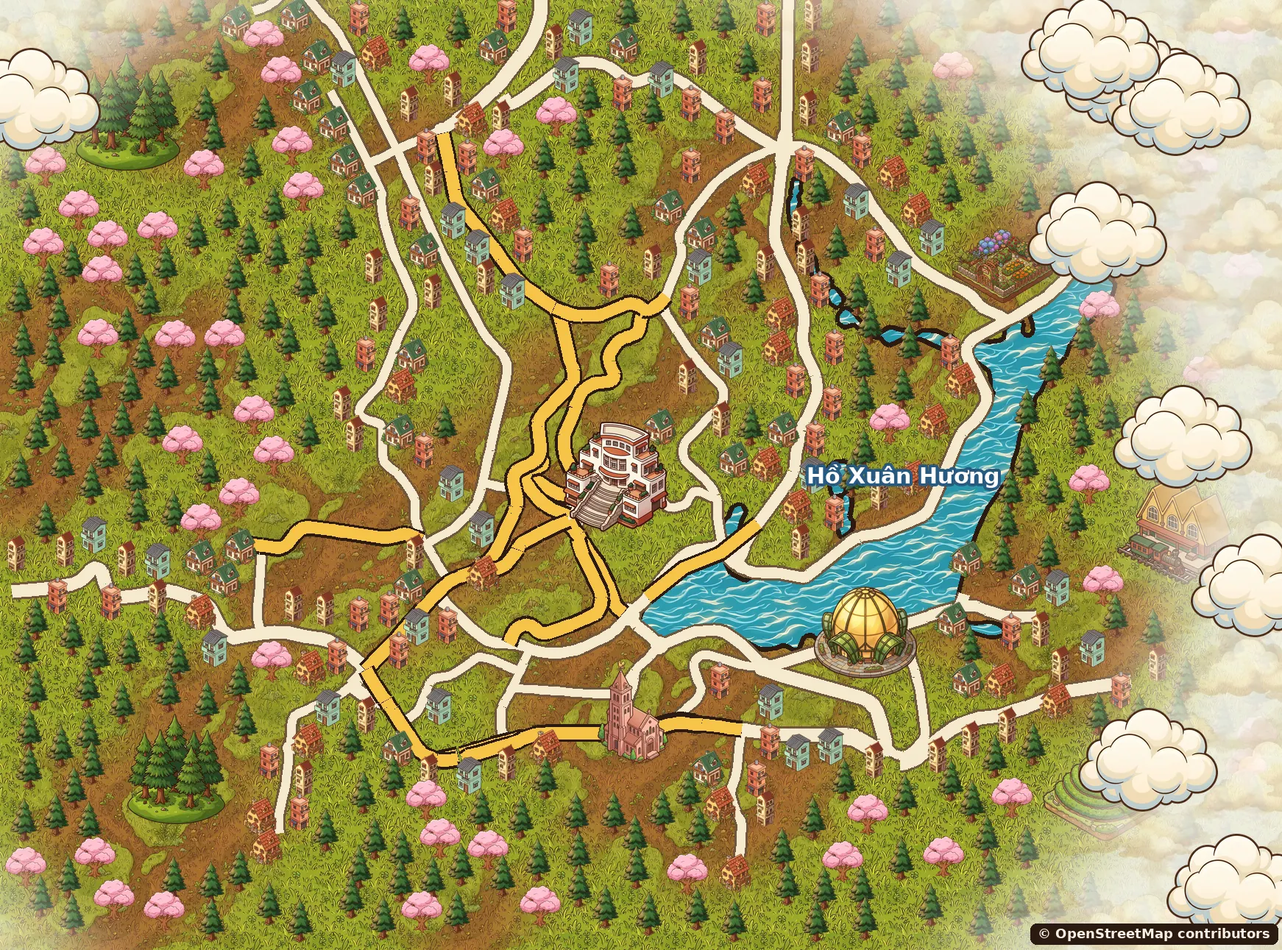
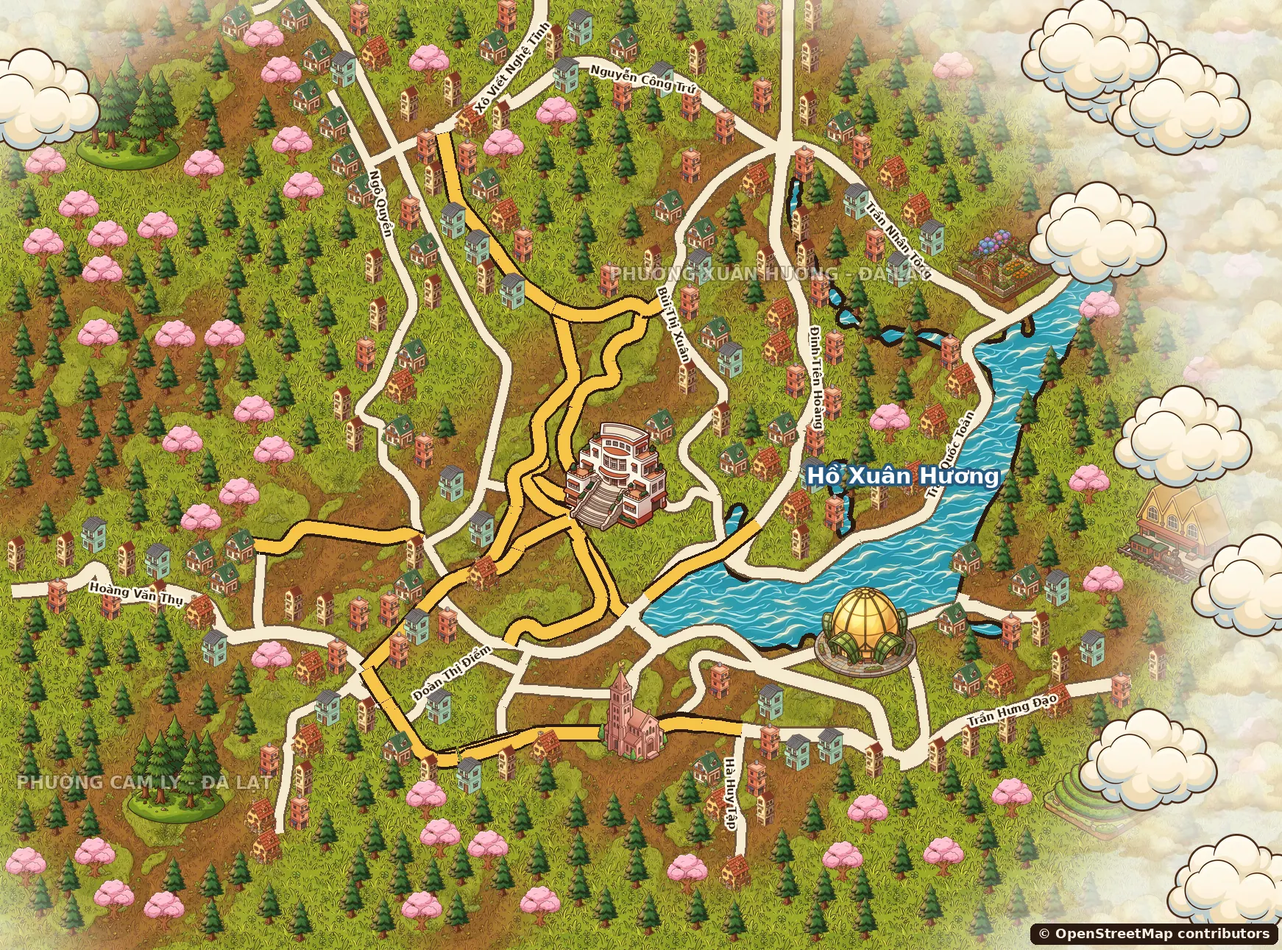
Bản đồ theo địa giới mới: 34 tỉnh thành (3 miền), Lâm Đồng → phường Xuân Hương / Cam Ly - Đà Lạt; ghi tên đường thật trên bản đồ, trang phố giới thiệu đặc trưng
Nguồn: NQ 202/2025/QH15, Luật 72/2025/QH15, NQ 1671/NQ-UBTVQH15 (docs/research/dia_gioi_2025.md)

Claude-Session: https://claude.ai/code/session_01X21C3yKyKWkBxdp7Y7iVUK

diff --git a/src/core/cities.ts b/src/core/cities.ts
@@ -1,28 +1,74 @@
 /**
- * Bản đồ nhiều tầng (anh Kha 25/11/2026: "sau này có map các thành phố lớn, nhiều màn hơn"):
- * Việt Nam → Thành phố → Phố → Tiệm. Thêm thành phố mới = thêm 1 dòng ở đây + bản đồ + các phố của nó.
- * Vị trí xPct/yPct: chỗ ghim trên bản đồ Việt Nam (Spark vẽ sau), theo % khung dọc.
+ * Bản đồ nhiều tầng theo ĐỊA GIỚI MỚI (anh Kha 25/11/2026):
+ * Việt Nam → 34 tỉnh/thành (NQ 202/2025/QH15, chạy từ 1/7/2025) → phường/xã (bỏ cấp huyện) → đường thật → tiệm.
+ * Đà Lạt nay thuộc tỉnh Lâm Đồng mới (Lâm Đồng + Đắk Nông + Bình Thuận); "TP Đà Lạt" không còn là đơn vị hành chính,
+ * thay bằng 5 phường "… - Đà Lạt" (NQ 1671/NQ-UBTVQH15). Nguồn: docs/research/dia_gioi_2025.md.
+ * Mở tỉnh mới = đổi open:true + thêm bản đồ + các phố của nó.
  */
-export interface CityDef {
+export type Region = 'bac' | 'trung' | 'nam';
+export interface ProvinceDef {
   id: string;
   name: string;
-  open: boolean;
-  /** câu ngắn dưới tên */
-  tag: string;
-  xPct: number;
-  yPct: number;
+  region: Region;
+  /** thành phố trực thuộc trung ương */
+  tw?: boolean;
+  open?: boolean;
+  /** chỗ chơi đang mở trong tỉnh (vd. Đà Lạt) */
+  playArea?: string;
 }
 
-export const CITIES: CityDef[] = [
-  { id: 'da_lat', name: 'Đà Lạt', open: true, tag: 'Phố núi sương mù', xPct: 62, yPct: 74 },
-  { id: 'sai_gon', name: 'Sài Gòn', open: false, tag: 'Sắp mở', xPct: 52, yPct: 84 },
-  { id: 'ha_noi', name: 'Hà Nội', open: false, tag: 'Sắp mở', xPct: 40, yPct: 12 },
-  { id: 'da_nang', name: 'Đà Nẵng', open: false, tag: 'Sắp mở', xPct: 64, yPct: 46 },
-  { id: 'hoi_an', name: 'Hội An', open: false, tag: 'Sắp mở', xPct: 66, yPct: 50 },
-  { id: 'hue', name: 'Huế', open: false, tag: 'Sắp mở', xPct: 56, yPct: 42 },
-  { id: 'nha_trang', name: 'Nha Trang', open: false, tag: 'Sắp mở', xPct: 72, yPct: 70 },
-  { id: 'can_tho', name: 'Cần Thơ', open: false, tag: 'Sắp mở', xPct: 40, yPct: 90 },
+export const PROVINCES: ProvinceDef[] = [
+  { id: 'ha_noi', name: 'Hà Nội', region: 'bac', tw: true },
+  { id: 'hai_phong', name: 'Hải Phòng', region: 'bac', tw: true },
+  { id: 'quang_ninh', name: 'Quảng Ninh', region: 'bac' },
+  { id: 'bac_ninh', name: 'Bắc Ninh', region: 'bac' },
+  { id: 'hung_yen', name: 'Hưng Yên', region: 'bac' },
+  { id: 'ninh_binh', name: 'Ninh Bình', region: 'bac' },
+  { id: 'cao_bang', name: 'Cao Bằng', region: 'bac' },
+  { id: 'lang_son', name: 'Lạng Sơn', region: 'bac' },
+  { id: 'lai_chau', name: 'Lai Châu', region: 'bac' },
+  { id: 'dien_bien', name: 'Điện Biên', region: 'bac' },
+  { id: 'son_la', name: 'Sơn La', region: 'bac' },
+  { id: 'tuyen_quang', name: 'Tuyên Quang', region: 'bac' },
+  { id: 'lao_cai', name: 'Lào Cai', region: 'bac' },
+  { id: 'thai_nguyen', name: 'Thái Nguyên', region: 'bac' },
+  { id: 'phu_tho', name: 'Phú Thọ', region: 'bac' },
+  { id: 'thanh_hoa', name: 'Thanh Hóa', region: 'trung' },
+  { id: 'nghe_an', name: 'Nghệ An', region: 'trung' },
+  { id: 'ha_tinh', name: 'Hà Tĩnh', region: 'trung' },
+  { id: 'quang_tri', name: 'Quảng Trị', region: 'trung' },
+  { id: 'hue', name: 'Huế', region: 'trung', tw: true },
+  { id: 'da_nang', name: 'Đà Nẵng', region: 'trung', tw: true },
+  { id: 'quang_ngai', name: 'Quảng Ngãi', region: 'trung' },
+  { id: 'gia_lai', name: 'Gia Lai', region: 'trung' },
+  { id: 'dak_lak', name: 'Đắk Lắk', region: 'trung' },
+  { id: 'khanh_hoa', name: 'Khánh Hòa', region: 'trung' },
+  { id: 'lam_dong', name: 'Lâm Đồng', region: 'trung', open: true, playArea: 'Đà Lạt' },
+  { id: 'tp_hcm', name: 'TP Hồ Chí Minh', region: 'nam', tw: true },
+  { id: 'dong_nai', name: 'Đồng Nai', region: 'nam' },
+  { id: 'tay_ninh', name: 'Tây Ninh', region: 'nam' },
+  { id: 'can_tho', name: 'Cần Thơ', region: 'nam', tw: true },
+  { id: 'vinh_long', name: 'Vĩnh Long', region: 'nam' },
+  { id: 'dong_thap', name: 'Đồng Tháp', region: 'nam' },
+  { id: 'ca_mau', name: 'Cà Mau', region: 'nam' },
+  { id: 'an_giang', name: 'An Giang', region: 'nam' },
 ];
+export const REGION_NAME: Record<Region, string> = { bac: 'Miền Bắc', trung: 'Miền Trung – Tây Nguyên', nam: 'Miền Nam' };
+
+/**
+ * Phố trong game ↔ đường thật. Bản đồ ghi TÊN ĐƯỜNG THẬT; trang phố giới thiệu "phố" theo đặc trưng.
+ * Phường: theo bảng giá đất cũ (phường 1–6) + NQ 1671 — Hoàng Diệu (P5 cũ) → Cam Ly; còn lại → Xuân Hương.
+ */
+export interface StreetInfo { road: string; roads: string; ward: string; gameName: string; intro: string }
+export const STREET_INFO: Record<string, StreetInfo> = {
+  doc: { road: 'Phố Dốc', roads: 'Con dốc nhỏ gần chợ (phố trong game)', ward: 'Xuân Hương - Đà Lạt', gameName: 'Phố Dốc', intro: 'Ba tiệm đầu tiên: tiệm giày, tiệm bánh, tiệm hoa — học giữ tiệm ở đây' },
+  street_tang_bat_ho: { road: 'Tăng Bạt Hổ', roads: 'Đường Tăng Bạt Hổ – Trương Công Định', ward: 'Xuân Hương - Đà Lạt', gameName: 'Phố Ăn Đêm', intro: 'Phố ăn đêm sau chợ và dốc phố Tây: bánh căn, sữa nóng, hostel, bar dưới hầm' },
+  street_pho_ca_phe: { road: 'Nguyễn Chí Thanh', roads: 'Đường Nguyễn Chí Thanh – Lê Đại Hành', ward: 'Xuân Hương - Đà Lạt', gameName: 'Phố Cà Phê', intro: 'Con đường cà phê lên Khu Hoà Bình: quán xưa cạnh quán mới, kem bơ, sân thượng nhìn phố' },
+  street_phan_dinh_phung: { road: 'Phan Đình Phùng', roads: 'Đường Phan Đình Phùng', ward: 'Xuân Hương - Đà Lạt', gameName: 'Phố Dân Sinh', intro: 'Phố cũ của dân phố núi: nhà thuốc, tiệm tóc, nhà sách, studio ảnh cưới, phở sáng, tiệm xe máy' },
+  street_nguyen_van_troi: { road: 'Nguyễn Văn Trỗi', roads: 'Đường Nguyễn Văn Trỗi', ward: 'Xuân Hương - Đà Lạt', gameName: 'Phố Kem Bơ', intro: 'Phố một chiều ăn vặt ngọt: kem bơ lâu năm, chè, bánh tráng nướng, dốc chùa' },
+  street_hoang_dieu: { road: 'Hoàng Diệu', roads: 'Đường Hoàng Diệu', ward: 'Cam Ly - Đà Lạt', gameName: 'Phố Lẩu Bò', intro: 'Phố lẩu bò Ba Toa: hơn 20 quán lẩu, sáng bán bánh mì xíu mại' },
+  street_tran_phu: { road: 'Trần Phú', roads: 'Đường Trần Phú – Ba Tháng Hai', ward: 'Xuân Hương - Đà Lạt', gameName: 'Phố Di Sản', intro: 'Phố di sản: khách sạn thời Pháp bên hồ, tiệm bánh lâu đời, quán phở, cháo đêm' },
+};
 
 /** Ảnh tranh đầu phố (Spark đợt 35) theo id phố / 'doc' */
 export function streetBannerUrl(tab: string): string {

diff --git a/src/scenes/TitleScene.ts b/src/scenes/TitleScene.ts
@@ -57,7 +57,7 @@ import { SCENE_KEYS } from '../game/sceneKeys';
 import { renderShopkeeperAvatarSvg } from '../game/shopkeeperAvatar';
 import { renderShopFacadeSvg } from '../game/shopStreetArt';
 import BIG_MAP_PINS from '../core/streets/bigMapPins.json';
-import { CITIES, streetBannerUrl } from '../core/cities';
+import { PROVINCES, REGION_NAME, STREET_INFO, streetBannerUrl, type Region } from '../core/cities';
 import { sound } from '../game/sound';
 
 const RING_SIZE = 340;
@@ -358,7 +358,7 @@ export class TitleScene extends Phaser.Scene {
           <div class="td-country-panel">
             <button type="button" class="td-close-btn" data-close-country aria-label="Đóng">✕</button>
             <h3>Bản đồ Việt Nam</h3>
-            <p>Đà Lạt đang mở. Các thành phố khác sẽ mở dần.</p>
+            <p>34 tỉnh, thành theo địa giới mới (từ 1/7/2025). Đang mở: Lâm Đồng (Đà Lạt). ★ = thành phố trực thuộc trung ương.</p>
             <div class="td-country-list" id="td-country-list"></div>
           </div>
         </div>
@@ -879,12 +879,12 @@ export class TitleScene extends Phaser.Scene {
       const docStars = SHOP_STREET.reduce((n, sh) => n + shopStars(cur, sh), 0);
       type Pin = { id: string; at: { leftPct: number; topPct: number }; name: string; sub: string; open: boolean; testid: string; extra: string };
       const pins: Pin[] = [
-        { id: 'doc', at: BM.stage_1!, name: 'Phố Dốc', sub: `★${docStars}`, open: true, testid: 'street-tab-doc', extra: '' },
+        { id: 'doc', at: BM.stage_1!, name: STREET_INFO.doc!.road, sub: `★${docStars}`, open: true, testid: 'street-tab-doc', extra: '' },
         ...REAL_STREET_STAGES.map((st) => {
           const base = REAL_STREET_MAP_PINS[st.id] ?? { leftPct: 50, topPct: 50, shortName: st.name, tag: '' };
           const prog = streetProgress(cur, st.id);
           return {
-            id: st.id, at: BM[st.id] ?? { leftPct: base.leftPct, topPct: base.topPct }, name: base.shortName,
+            id: st.id, at: BM[st.id] ?? { leftPct: base.leftPct, topPct: base.topPct }, name: STREET_INFO[st.id]?.road ?? base.shortName,
             sub: isRealStreetsUnlocked ? `${prog.shopsCleared}/${prog.shopsTotal}` : '', open: isRealStreetsUnlocked,
             testid: `real-street-pin-${st.id}`, extra: `data-real-pin="${st.id}"`,
           };
@@ -905,7 +905,7 @@ export class TitleScene extends Phaser.Scene {
               ${pp.sub ? `<span class="td-bm-sub">${pp.sub}</span>` : ''}
             </button>`).join('')}
         </div>
-        <button type="button" class="td-bm-country" id="btn-open-country" data-testid="btn-open-country">🇻🇳 Đà Lạt</button>
+        <button type="button" class="td-bm-country" id="btn-open-country" data-testid="btn-open-country">🇻🇳 Lâm Đồng · Đà Lạt</button>
       `;
       const inner = host.querySelector<HTMLDivElement>('.td-bm-inner')!;
       const vw = host.clientWidth || 380;
@@ -977,7 +977,8 @@ export class TitleScene extends Phaser.Scene {
       const cur = loadTdSave();
       const isDoc = activeStreetTab === 'doc';
       const st = isDoc ? undefined : STAGES[activeStreetTab as StageId];
-      const name = isDoc ? 'Phố Dốc' : (REAL_STREET_MAP_PINS[activeStreetTab]?.shortName ?? st?.name ?? '');
+      const info = STREET_INFO[activeStreetTab];
+      const name = info?.gameName ?? (isDoc ? 'Phố Dốc' : (REAL_STREET_MAP_PINS[activeStreetTab]?.shortName ?? st?.name ?? ''));
       const sub = isDoc
         ? `${SHOP_STREET.reduce((n, sh) => n + (shopStars(cur, sh) > 0 ? 1 : 0), 0)}/${SHOP_STREET.length} tiệm đã giữ`
         : (() => { const pr = streetProgress(cur, activeStreetTab as StageId); return `${pr.shopsCleared}/${pr.shopsTotal} tiệm đã giữ${pr.streetWon ? ' · đã thắng trùm' : ''}`; })();
@@ -985,16 +986,20 @@ export class TitleScene extends Phaser.Scene {
         <div class="td-street-banner" style="background-image:url('${streetBannerUrl(activeStreetTab)}')">
           <button type="button" class="td-street-back" id="btn-street-back" data-testid="btn-street-back" aria-label="Về bản đồ">◀ Bản đồ</button>
           <div class="td-street-banner-text"><b>${name}</b><span>${sub}</span></div>
-        </div>`;
+        </div>
+        ${info ? `<div class="td-street-intro"><div class="td-street-road">📍 ${info.roads} · Phường ${info.ward}</div><div>${info.intro}</div></div>` : ''}`;
       head.querySelector<HTMLButtonElement>('#btn-street-back')!.onclick = () => { sound.playUiClick(); closeStreetPage(); };
     };
     const renderCountry = (): void => {
       const box = root.querySelector<HTMLDivElement>('#td-country-list');
       if (!box) return;
-      box.innerHTML = CITIES.map((c) => `
-        <button type="button" class="td-city ${c.open ? 'open' : 'locked'}" data-city="${c.id}" ${c.open ? '' : 'disabled'}>
-          <b>${c.open ? '' : '🔒 '}${c.name}</b><span>${c.tag}</span>
-        </button>`).join('');
+      box.innerHTML = (['bac', 'trung', 'nam'] as Region[]).map((rg) => `
+        <div class="td-region"><div class="td-region-name">${REGION_NAME[rg]}</div><div class="td-region-grid">
+        ${PROVINCES.filter((p) => p.region === rg).map((p) => `
+          <button type="button" class="td-city ${p.open ? 'open' : 'locked'}" data-city="${p.id}" ${p.open ? '' : 'disabled'}>
+            <b>${p.name}${p.tw ? ' ★' : ''}</b><span>${p.open ? `Đang chơi: ${p.playArea}` : 'Sắp mở'}</span>
+          </button>`).join('')}
+        </div></div>`).join('');
       box.querySelectorAll<HTMLButtonElement>('.td-city.open').forEach((b) => {
         b.onclick = () => { sound.playUiClick(); root.querySelector('#td-country')?.setAttribute('hidden', ''); };
       });

diff --git a/src/ui/styles.css b/src/ui/styles.css
@@ -4262,3 +4262,12 @@ button.td-gear-bag-pill { cursor: pointer; border: 2px solid #2b1a12; font: inhe
 .td-city span { font-size: 11px; color: #7a5a3a; }
 .td-city.open { border-color: #2b1a12; box-shadow: 0 2px 0 #2b1a12; background: #fff4d6; }
 .td-city.locked { opacity: 0.6; }
+.td-street-intro { margin: -2px 0 8px; padding: 8px 10px; border-radius: 10px; background: #fff4d6; border: 1.5px solid #c9a97a; font-size: 12px; color: #4a3220; line-height: 1.35; }
+.td-street-road { font-weight: 800; font-size: 11px; color: #7a4a12; margin-bottom: 2px; }
+.td-region { margin-bottom: 10px; }
+.td-region-name { font: 800 12px var(--font-ui, system-ui); color: #7a4a12; margin: 0 0 4px; }
+.td-region-grid { display: grid; grid-template-columns: 1fr 1fr 1fr; gap: 6px; }
+.td-country-list { display: block; }
+.td-city { padding: 6px 7px; }
+.td-city b { font-size: 12px; }
+.td-city span { font-size: 10px; }

diff --git a/tools/level-maker/make_big_map.py b/tools/level-maker/make_big_map.py
@@ -222,6 +222,61 @@ if cloud is not None:
 
 # 7. chữ Hồ Xuân Hương + ghi nguồn
 d = ImageDraw.Draw(im)
+# 6b. TÊN ĐƯỜNG THẬT dọc theo đường (anh Kha 25/11: "bản đồ thực tế, ghi đúng tên đường")
+try:
+    road_font = ImageFont.truetype('/usr/share/fonts/truetype/dejavu/DejaVuSans-Bold.ttf', 15)
+    area_font = ImageFont.truetype('/usr/share/fonts/truetype/dejavu/DejaVuSans-Bold.ttf', 24)
+except OSError:
+    road_font = area_font = ImageFont.load_default()
+named = {}
+for r in data['roads']:
+    if r.get('name'):
+        named.setdefault(r['name'], []).append([P(*p) for p in r['pts']])
+for n, pts in gw:
+    if n:
+        named.setdefault(n, []).append([P(*p) for p in pts])
+labels = []
+for name, lines in named.items():
+    if name.startswith('Bùng binh') or name.startswith('Công trường') or name == 'Khu Hòa Bình':
+        continue
+    # chỗ giữa theo chiều dài của nhánh dài nhất; góc lấy theo 2 điểm cách giữa ±45 điểm
+    q = max(lines, key=lambda z: sum(math.hypot(u[0] - v[0], u[1] - v[1]) for u, v in zip(z, z[1:])))
+    dens = []
+    for u, v in zip(q, q[1:]):
+        n_ = max(1, int(math.hypot(v[0] - u[0], v[1] - u[1]) / 4))
+        dens += [(u[0] + (v[0] - u[0]) * i / n_, u[1] + (v[1] - u[1]) * i / n_) for i in range(n_)]
+    if len(dens) < 40:
+        continue
+    L = len(dens) * 4
+    mid = len(dens) // 2
+    mx, my = dens[mid]
+    a = dens[max(0, mid - 11)]; b = dens[min(len(dens) - 1, mid + 11)]
+    if not (30 < mx < W - 30 and 30 < my < H - 30):
+        continue
+    if fm.getpixel((int(mx), int(my))) > 120:      # trong sương thì thôi
+        continue
+    if any(math.hypot(mx - q2[0], my - q2[1]) < 70 for q2 in pin_pts) or any(math.hypot(mx - q2[0], my - q2[1]) < 85 for q2 in lm_pts) or any(math.hypot(mx - q2[0], my - q2[1]) < 80 for q2 in labels):
+        continue
+    tw = int(d.textlength(name, font=road_font)) + 12
+    if tw > L * 1.2:
+        continue
+    t = Image.new('RGBA', (tw, 26), (0, 0, 0, 0))
+    ImageDraw.Draw(t).text((6, 3), name, font=road_font, fill=(58, 38, 22), stroke_width=3, stroke_fill=(255, 248, 228))
+    ang = math.degrees(math.atan2(b[1] - a[1], b[0] - a[0]))
+    if ang > 90: ang -= 180
+    if ang < -90: ang += 180
+    t = t.rotate(-ang, expand=True, resample=Image.BICUBIC)
+    im.alpha_composite(t, (int(mx - t.width / 2), int(my - t.height / 2)))
+    labels.append((mx, my))
+# tên phường mới (địa giới từ 1/7/2025, NQ 1671/NQ-UBTVQH15): chữ nhạt, lớp riêng để pha trong
+area = Image.new('RGBA', (W, H), (0, 0, 0, 0))
+ad = ImageDraw.Draw(area)
+for txt_, (la, lo) in [('PHƯỜNG XUÂN HƯƠNG - ĐÀ LẠT', (11.9505, 108.4420)), ('PHƯỜNG CAM LY - ĐÀ LẠT', (11.9350, 108.4225))]:
+    x, y = P(la, lo)
+    tw = ad.textlength(txt_, font=area_font)
+    ad.text((x - tw / 2, y - 20), txt_, font=area_font, fill=(255, 250, 235, 120), stroke_width=2, stroke_fill=(70, 50, 30, 90))
+im.alpha_composite(area)
+d = ImageDraw.Draw(im)
 try:
     font = ImageFont.truetype('/usr/share/fonts/truetype/dejavu/DejaVuSans-Bold.ttf', 30)
     small = ImageFont.truetype('/usr/share/fonts/truetype/dejavu/DejaVuSans-Bold.ttf', 18)

diff --git a/docs/research/dia_gioi_2025.md b/docs/research/dia_gioi_2025.md
@@ -1,0 +1,13 @@
+# Địa giới hành chính mới (nghiên cứu 25/11/2026) — dùng cho bản đồ nhiều tầng của game
+
+- **NQ 202/2025/QH15** (Quốc hội thông qua 12/6/2025; chính quyền mới chạy từ 1/7/2025): còn **34 đơn vị cấp tỉnh = 28 tỉnh + 6 thành phố trực thuộc TW** (Hà Nội, Hải Phòng, Huế, Đà Nẵng, TP HCM, Cần Thơ).
+  Nguồn: https://static3.luatvietnam.vn/uploaded/vietlawfile/2025/6/202_2025_qh15_130625135937.pdf · https://vbpl.vn/TW/Lists/vbpq/Attachments/179501/202_2025_QH15_648951.doc
+- **Luật Tổ chức chính quyền địa phương 72/2025/QH15**: 2 cấp — tỉnh/thành → xã/phường/đặc khu; bỏ cấp huyện từ 1/7/2025.
+  Nguồn: https://datafiles.chinhphu.vn/cpp/files/vbpq/2025/7/2025_807-808_72-2025-qh15..pdf
+- **Lâm Đồng mới** = Lâm Đồng + Đắk Nông + Bình Thuận (NQ 202, Điều 1 khoản 14). "TP Đà Lạt" không còn là đơn vị hành chính.
+- **NQ 1671/NQ-UBTVQH15** (16/6/2025): 5 phường "… - Đà Lạt": Xuân Hương (P1,2,3,4,10 cũ) · Cam Ly (P5,6 + xã Tà Nung) · Lâm Viên (P8,9,12) · Xuân Trường (P11 + Xuân Thọ, Xuân Trường, Trạm Hành) · Lang Biang (P7 + TT Lạc Dương + xã Lát).
+  Nguồn: https://baolamdong.vn/toan-van-nghi-quyet-so-1671-nq-ubtvqh15-sap-xep-cac-dvhc-cap-xa-cua-tinh-lam-dong-nam-2025-255777.html
+- Phố trong game → phường (qua phường cũ trong bảng giá đất, thuviennhadat.vn):
+  - Đã kiểm: Hoàng Diệu (P5 cũ) → **Cam Ly - Đà Lạt**; Lê Đại Hành (P1), Ba Tháng Hai (P1, P4), Trần Phú (P3), Nguyễn Văn Trỗi (P2) → **Xuân Hương - Đà Lạt**.
+  - Chưa kiểm nguồn (rất có thể Xuân Hương vì nằm khu P1–P2 trung tâm): Tăng Bạt Hổ, Trương Công Định, Nguyễn Chí Thanh, Phan Đình Phùng (đầu phía tây có thể sang Cam Ly).
+- Nhóm vùng trong game (Bắc / Trung – Tây Nguyên / Nam) là Claude tự chia cho gọn, không phải văn bản pháp lý.
